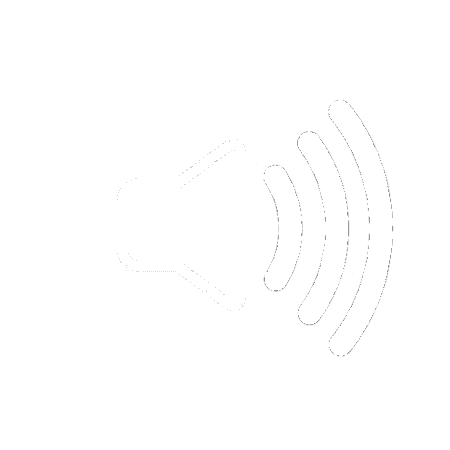
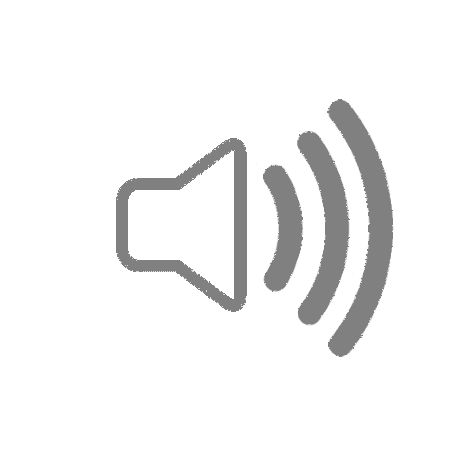
pushed around the Mute button#

Changed region(s): [[0.2489, 0.3111, 0.6844, 0.7156], [0.6533, 0.2178, 0.8711, 0.8089]]

diff --git a/css/style.css b/css/style.css
@@ -21,8 +21,11 @@ canvas {
 #control-music {
 
   background-size: 115%;
-  height: 50px;
-  width: 50px;
+  height: 100px;
+  width: 100px;
+  float: right;
+  margin-right: 666px;
+  margin-top: -33px;
 }
 
 .unmute {
